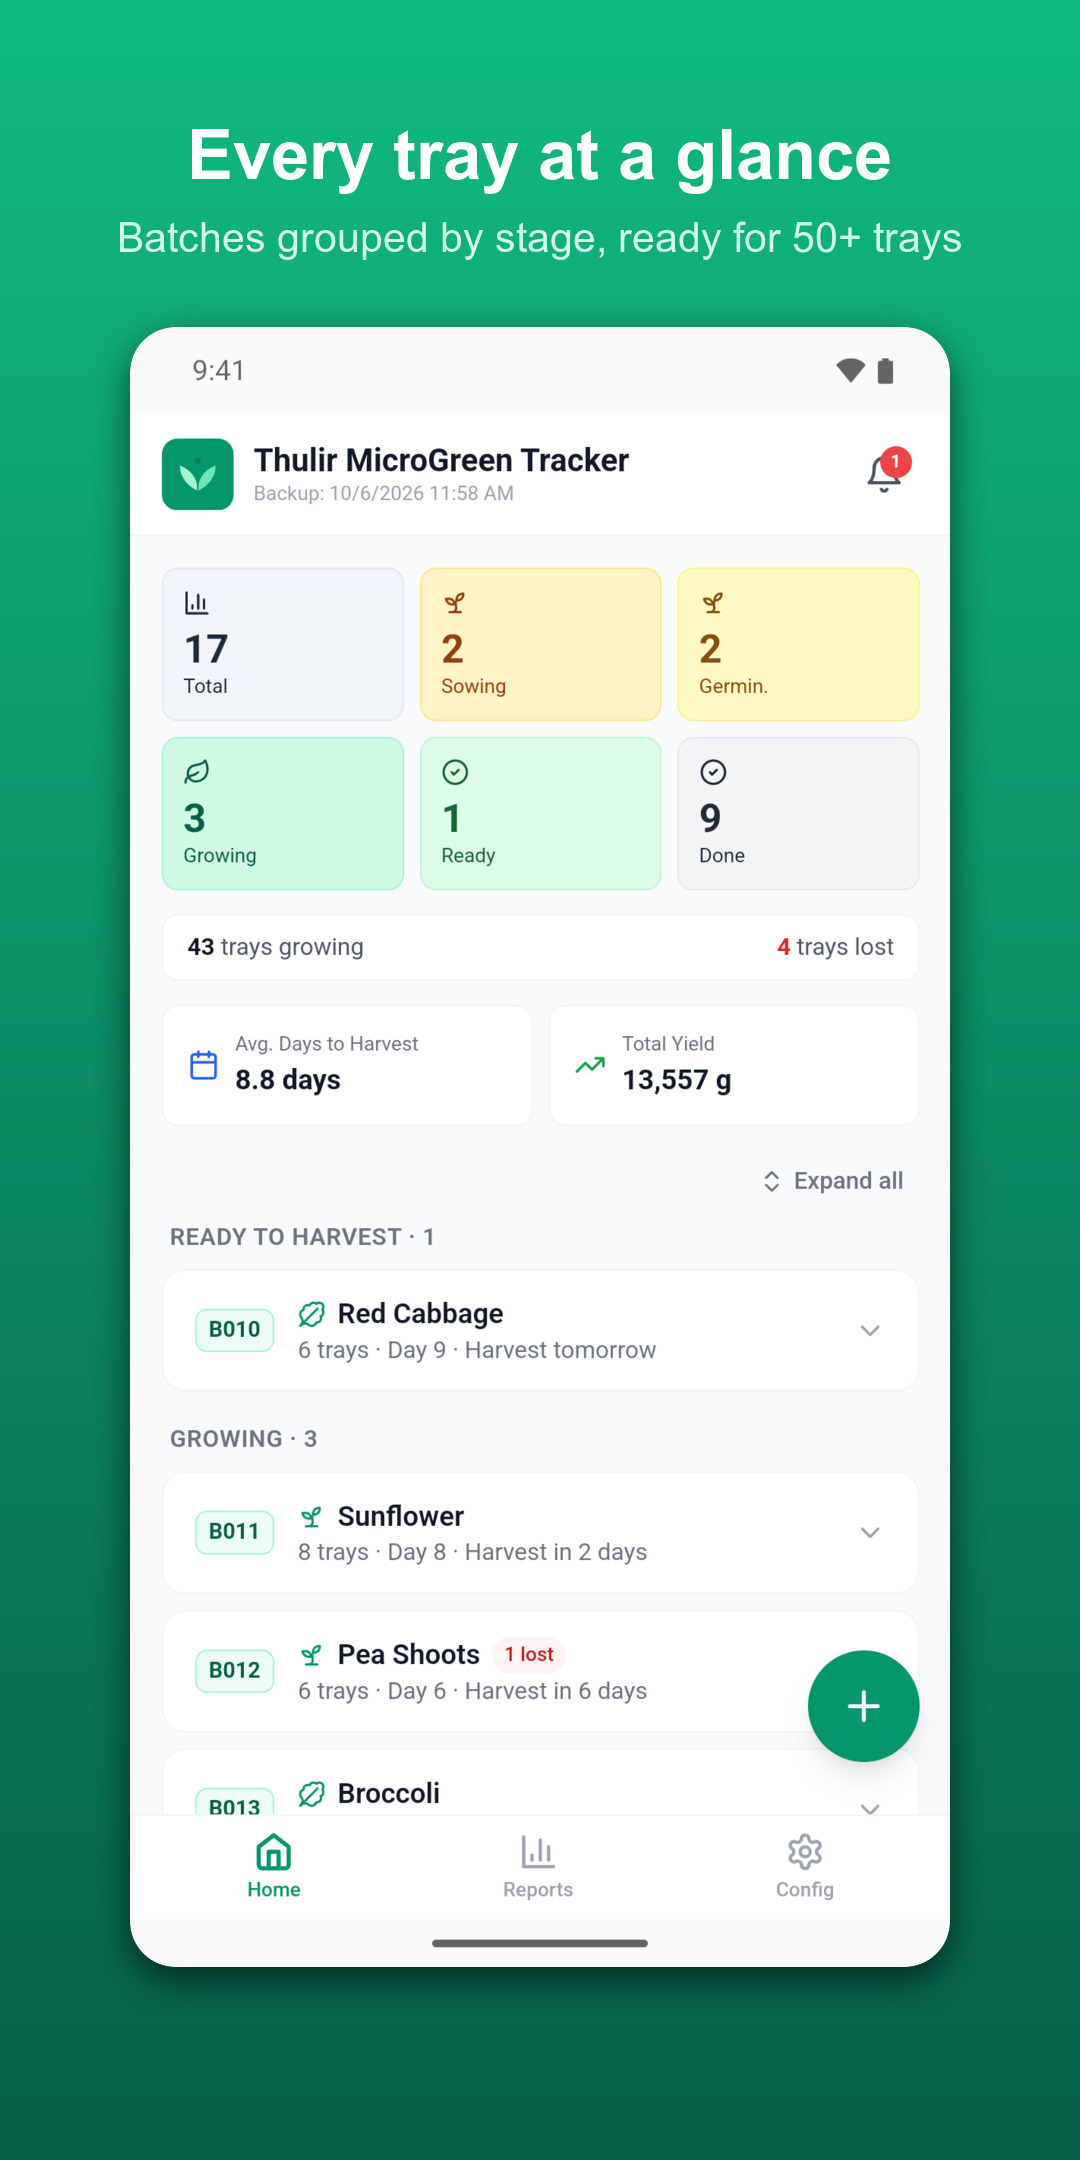
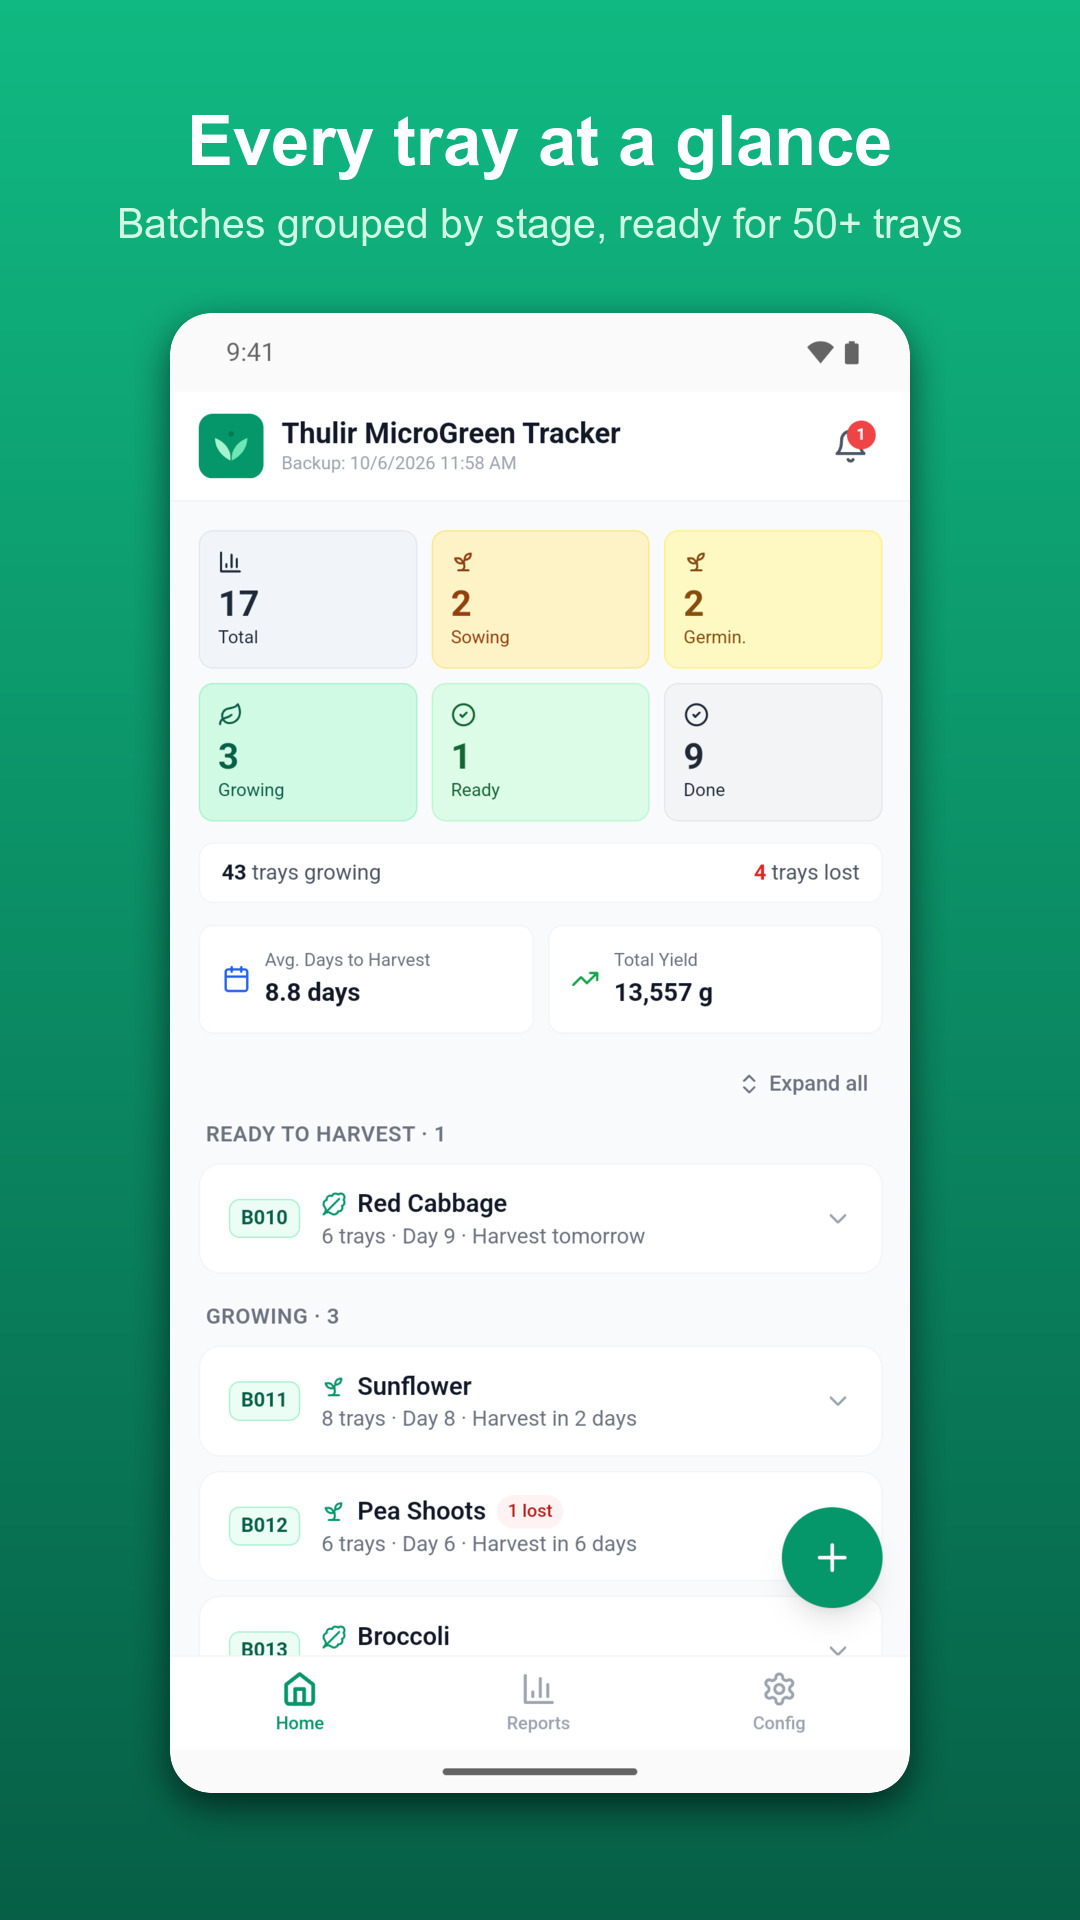
Make the Google Play screenshots 9:16
Play Console now accepts phone screenshots only in 16:9 or 9:16, so the
captioned Android images are recomposed at 1080 x 1920 (the plain 1080 x
2160 captures sit inside them, slightly smaller). screenshots.md is
updated with the new rule and compose command.

Changed region(s): [[0.0917, 0.0625, 0.9167, 0.9688], [0.5806, 0.4688, 0.6722, 0.5312], [0.7028, 0.4375, 0.7944, 0.4688]]

diff --git a/docs/store/screenshots.md b/docs/store/screenshots.md
@@ -9,7 +9,7 @@ October 2026; App Store Connect and the Play Console show the current ones when 
 | Folder / file | Use it for | Size |
 |---|---|---|
 | `screenshots/ios-store/01…08.jpg` | **App Store** iPhone screenshots (captioned) | 1320 × 2868 |
-| `screenshots/android-store/01…08.jpg` | **Google Play** phone screenshots (captioned) | 1080 × 2160 |
+| `screenshots/android-store/01…08.jpg` | **Google Play** phone screenshots (captioned) | 1080 × 1920 (9:16) |
 | `screenshots/feature-graphic-1024x500.jpg` | **Google Play** feature graphic (required) | 1024 × 500 |
 | `screenshots/play-icon-512.png` | **Google Play** app icon | 512 × 512 |
 | `screenshots/ios/`, `screenshots/android/` | The same screens without captions, if you prefer plain screenshots or want to design your own frames | as above |
@@ -42,7 +42,7 @@ few tray photos in the app on your phone, then capture the gallery with headline
 | Asset | Store | Size |
 |---|---|---|
 | iPhone screenshots (1–10) | App Store | 1320 × 2868 portrait (6.9" display); smaller iPhones are scaled from it |
-| Phone screenshots (2–8; 4+ recommended) | Google Play | Each side 320–3840 px and the long side at most **2× the short side**. A Pixel's native 1080 × 2400 is too tall, so these are 1080 × 2160 |
+| Phone screenshots (2–8; 4+ recommended) | Google Play | PNG or JPEG up to 8 MB, **9:16 or 16:9**, each side 320–3840 px (Play Console's rule as of October 2026; earlier it allowed up to 2:1). The captioned images are 1080 × 1920; the plain captures in `screenshots/android/` are 1080 × 2160 and go inside them |
 | Feature graphic | Google Play | 1024 × 500 PNG or JPG, no transparency |
 | App icon | Google Play | 512 × 512 PNG |
 
@@ -71,7 +71,7 @@ The tools are in [`screenshots/tools/`](screenshots/tools/).
    `captions.txt`), using ImageMagick:
    ```bash
    ./compose.sh ../ios/01-home.png ../ios-store/01-home.jpg 1320 2868 1060 "Every tray at a glance" "Batches grouped by stage, ready for 50+ trays"
-   ./compose.sh ../android/01-home.png ../android-store/01-home.jpg 1080 2160 820 "Every tray at a glance" "Batches grouped by stage, ready for 50+ trays"
+   ./compose.sh ../android/01-home.png ../android-store/01-home.jpg 1080 1920 740 "Every tray at a glance" "Batches grouped by stage, ready for 50+ trays"
    ```
 
 4. **Feature graphic** (Google Play, 1024 × 500), from the app icon and the plain Android home screen, run from the
